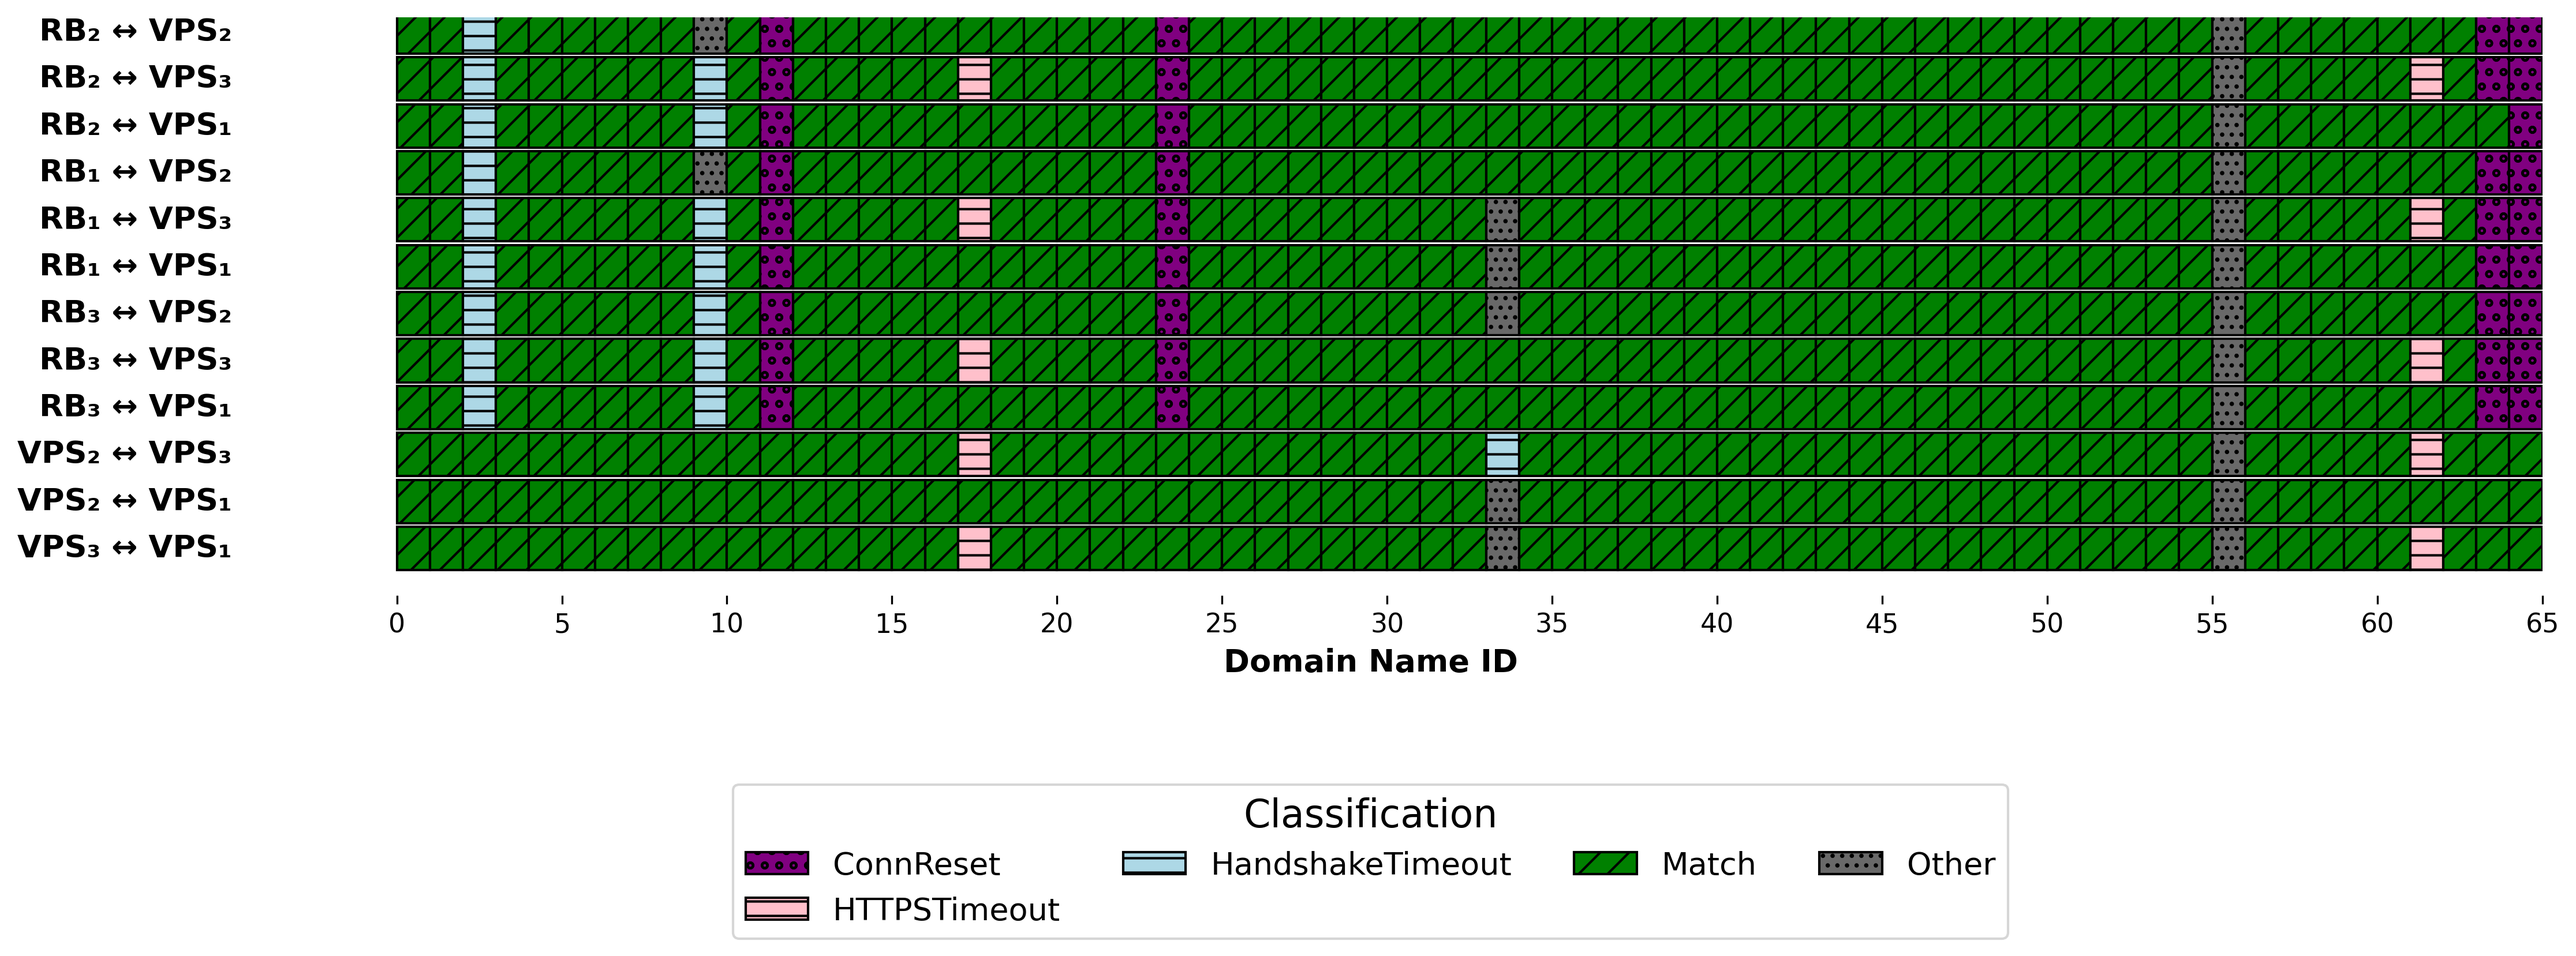
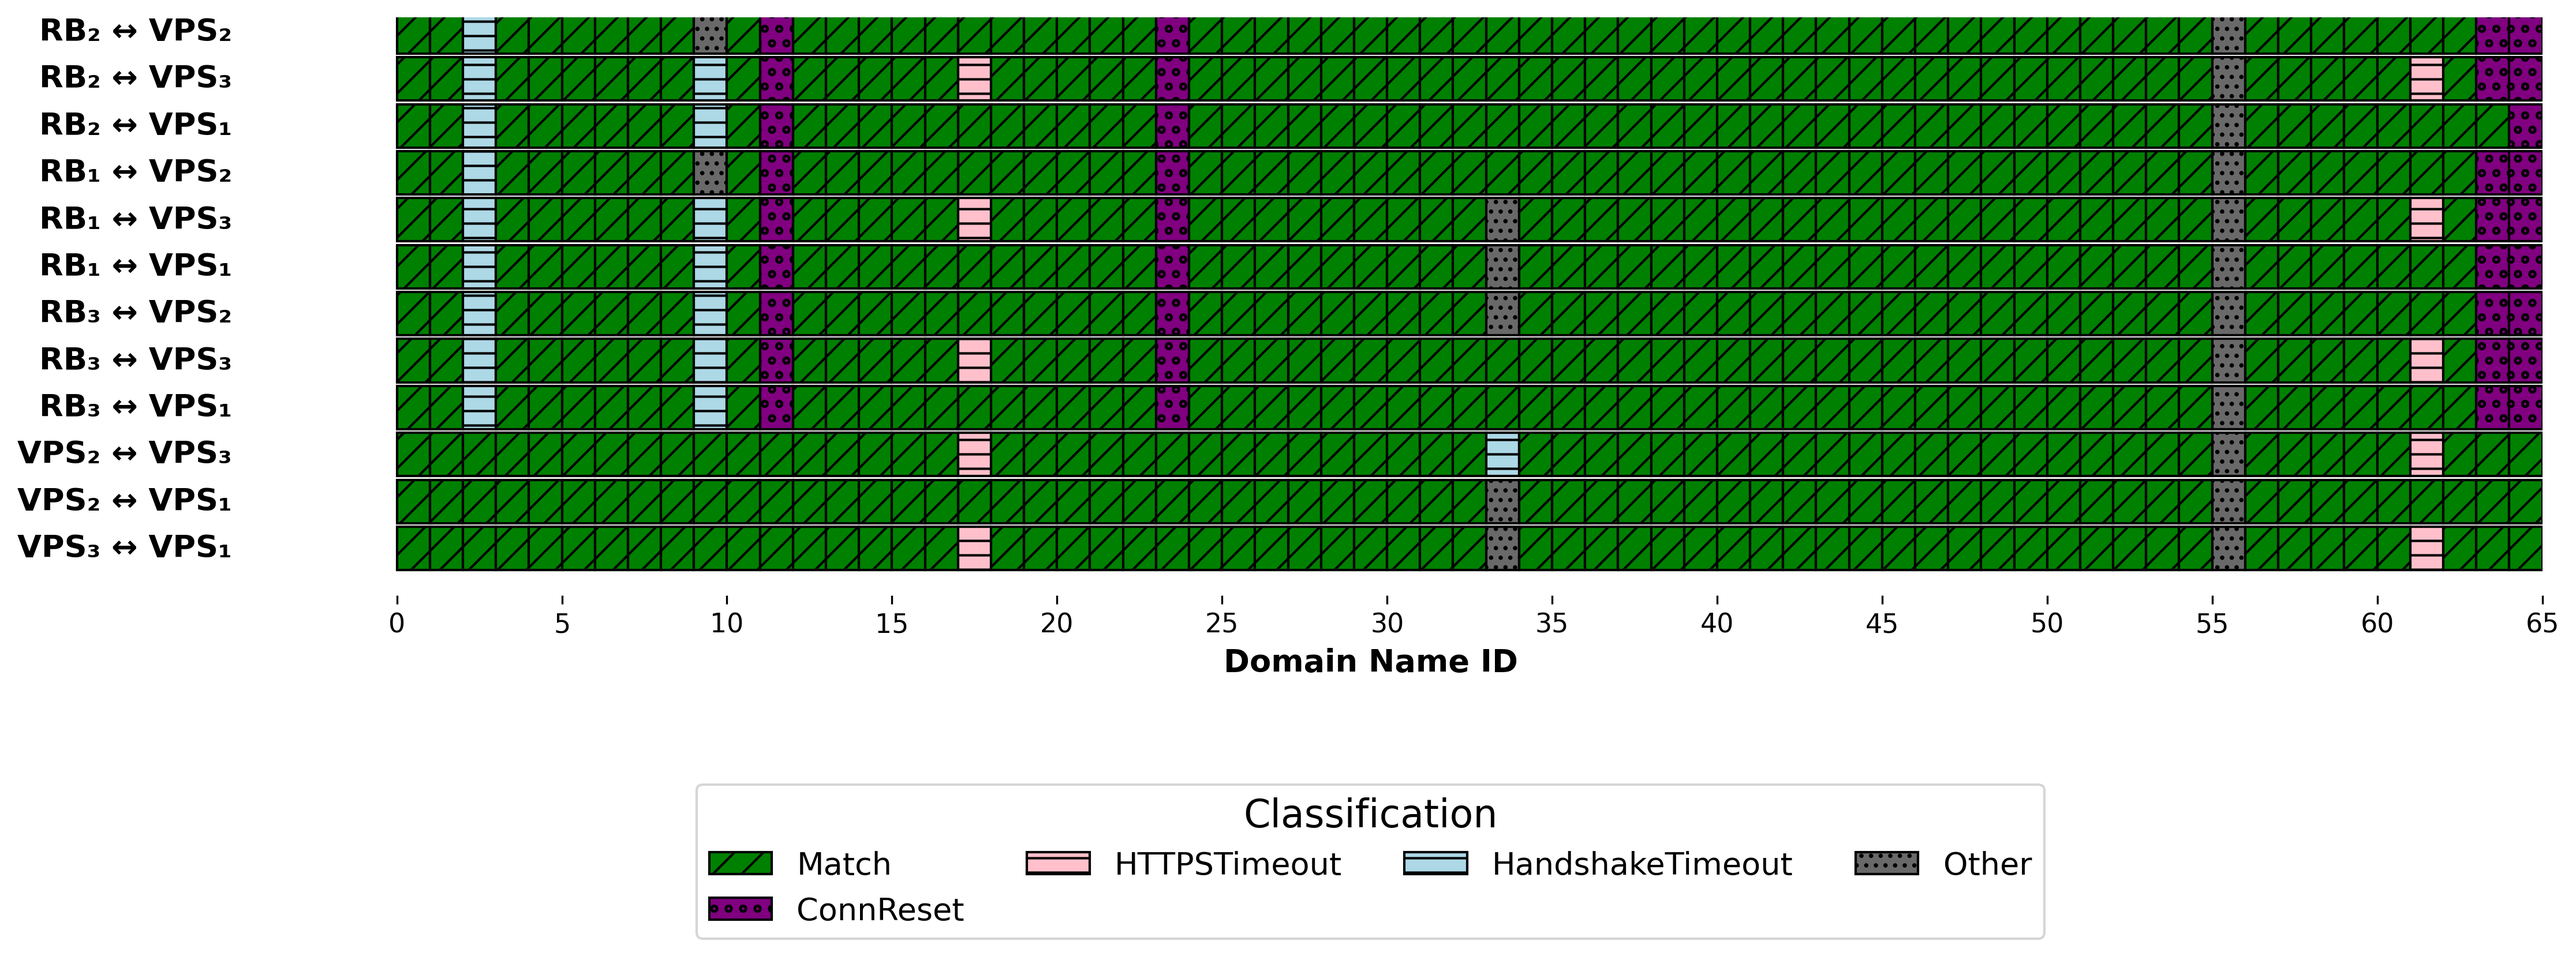
display with match first

Changed region(s): [[0.2492, 0.8926, 0.8098, 0.9849]]

diff --git a/http_simple_all_workers_conformance.py b/http_simple_all_workers_conformance.py
@@ -158,10 +158,19 @@ def plot_classification_group(protocol, output_file):
             fontsize=13
         )
 
+    def legend_sort_key(status):
+        if status == 'Match':
+            return '0'
+        if status == 'Other':
+            return 'zzz'
+        return status
+
+    sorted_statuses = sorted(present_statuses, key=legend_sort_key)
+
     # Legend
     legend_handles = [
         mpatches.Patch(facecolor=colors[key], edgecolor='black', hatch=patterns[key], label=key)
-        for key in sorted(present_statuses)
+        for key in sorted_statuses
     ]
     ax.legend(
         handles=legend_handles,

diff --git a/dns_all_workers.py b/dns_all_workers.py
@@ -128,9 +128,13 @@ for idx, pair in enumerate(all_pairs):
     )
 
 # 7) Add legend
+preferred_order = ['Received', 'Sinkhole', 'No Response']
+remaining_statuses = sorted(present_statuses - set(preferred_order))
+legend_keys = preferred_order + remaining_statuses
+
 legend_handles = [
     mpatches.Patch(facecolor=colors[key], edgecolor='black', hatch=patterns[key], label=key)
-    for key in sorted(present_statuses)
+    for key in legend_keys
 ]
 ax.legend(
     handles=legend_handles,

diff --git a/http_conformance_all_workers.py b/http_conformance_all_workers.py
@@ -122,9 +122,13 @@ for idx, pair in enumerate(all_pairs):
     )
 
 # 7) Legend
+preferred_order = ['Match', '503', 'Empty']
+remaining_statuses = sorted(present_statuses - set(preferred_order))
+legend_keys = preferred_order + remaining_statuses
+
 legend_handles = [
     mpatches.Patch(facecolor=colors[key], edgecolor='black', hatch=patterns[key], label=key)
-    for key in sorted(present_statuses)
+    for key in legend_keys
 ]
 ax.legend(
     handles=legend_handles,
